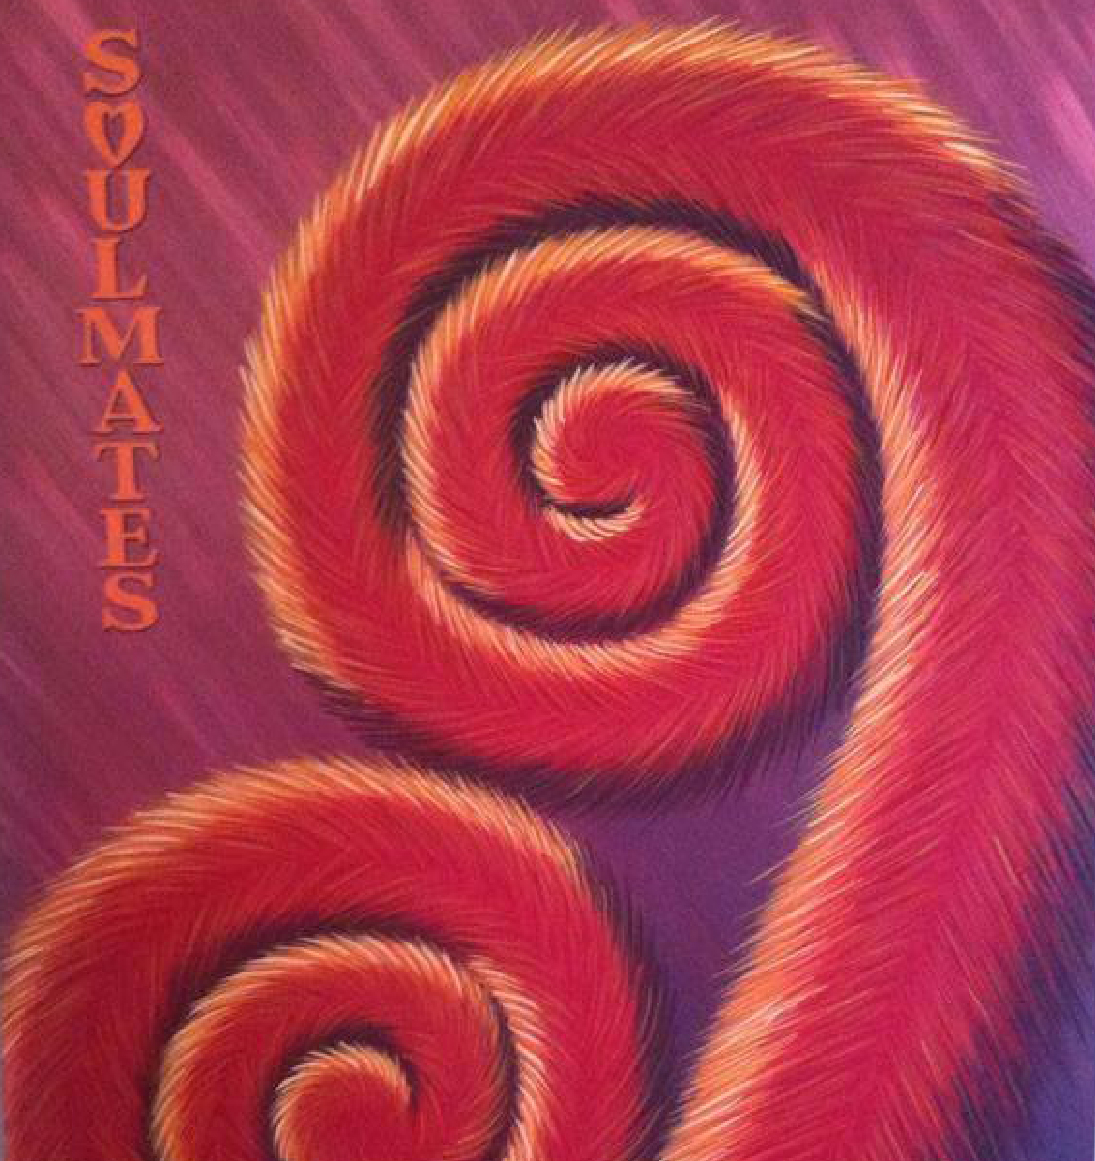
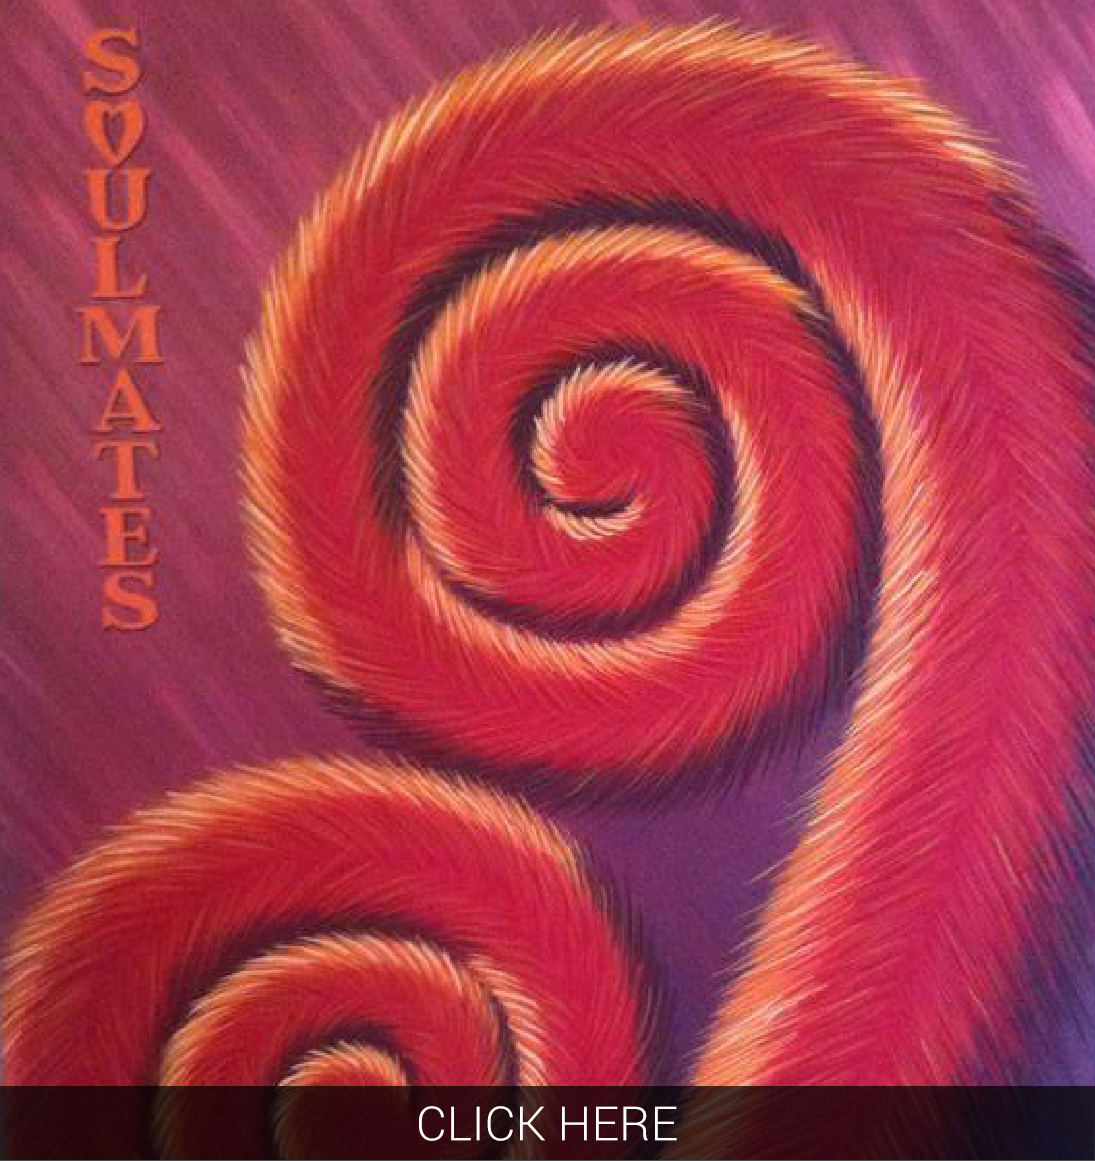
Added "click here" to rest of small images, made a error change to the kiwiana page

diff --git a/kiwianaseries.html b/kiwianaseries.html
@@ -113,7 +113,7 @@
         <div class="container-fluid"  style="margin-top:1.5%;">
             <div class="row"  style="background-color: #333; margin-left:0.1%; margin-right: 0.1%;">
                 <div class="col-sm-4">
-                    <h6><a class="fancybox" rel="galgroup" title="Woody, 2012 No.3" href="images/kiwiana/3.JPG"><img src="images/kiwiana/3small.jpg" alt="3" id="three"></a></h6>
+                    <h6><a class="fancybox" rel="galgroup" title="Woody, 2012 No.3" href="images/kiwiana/3.jpg"><img src="images/kiwiana/3small.jpg" alt="3" id="three"></a></h6>
                 </div>
                 <div class="col-sm-8">
                     <h3 style="margin-top:7%;">Woody, 2012 No.3</h3>
@@ -133,7 +133,7 @@
         <div class="container-fluid"  style="margin-top:1.5%;">
             <div class="row"  style="background-color: #333; margin-left:0.1%; margin-right: 0.1%;">
                 <div class="col-sm-4">
-                    <h6><a class="fancybox" rel="galgroup" title="White Silence, 2012 No.4" href="images/kiwiana/4.JPG"><img src="images/kiwiana/4small.jpg" alt="4" id="four"></a></h6>
+                    <h6><a class="fancybox" rel="galgroup" title="White Silence, 2012 No.4" href="images/kiwiana/4.jpg"><img src="images/kiwiana/4small.jpg" alt="4" id="four"></a></h6>
                 </div>
                 <div class="col-sm-8">
                     <h3 style="margin-top:7%;">White Silence, 2012 No.4</h3>
@@ -153,7 +153,7 @@
         <div class="container-fluid"  style="margin-top:1.5%;">
             <div class="row"  style="background-color: #333; margin-left:0.1%; margin-right: 0.1%;">
                 <div class="col-sm-4">
-                    <h6><a class="fancybox" rel="galgroup" title="Tobins Track, 2013 No.5" href="images/kiwiana/5.JPG"><img src="images/kiwiana/5small.jpg" alt="5" id="five"></a></h6>
+                    <h6><a class="fancybox" rel="galgroup" title="Tobins Track, 2013 No.5" href="images/kiwiana/5.jpg"><img src="images/kiwiana/5small.jpg" alt="5" id="five"></a></h6>
                 </div>
                 <div class="col-sm-8">
                     <h3 style="margin-top:7%;">Tobins Track, 2013 No.5</h3>
@@ -173,7 +173,7 @@
         <div class="container-fluid"  style="margin-top:1.5%;">
             <div class="row"  style="background-color: #333; margin-left:0.1%; margin-right: 0.1%;">
                 <div class="col-sm-4">
-                    <h6><a class="fancybox" rel="galgroup" title="Waitati Energy, 2016 No.6" href="images/kiwiana/6.JPG"><img src="images/kiwiana/6small.jpg" alt="6" id="six"></a></h6>
+                    <h6><a class="fancybox" rel="galgroup" title="Waitati Energy, 2016 No.6" href="images/kiwiana/6.jpg"><img src="images/kiwiana/6small.jpg" alt="6" id="six"></a></h6>
                 </div>
                 <div class="col-sm-8">
                     <h3 style="margin-top:7%;">Waitati Energy, 2016 No.6</h3>
